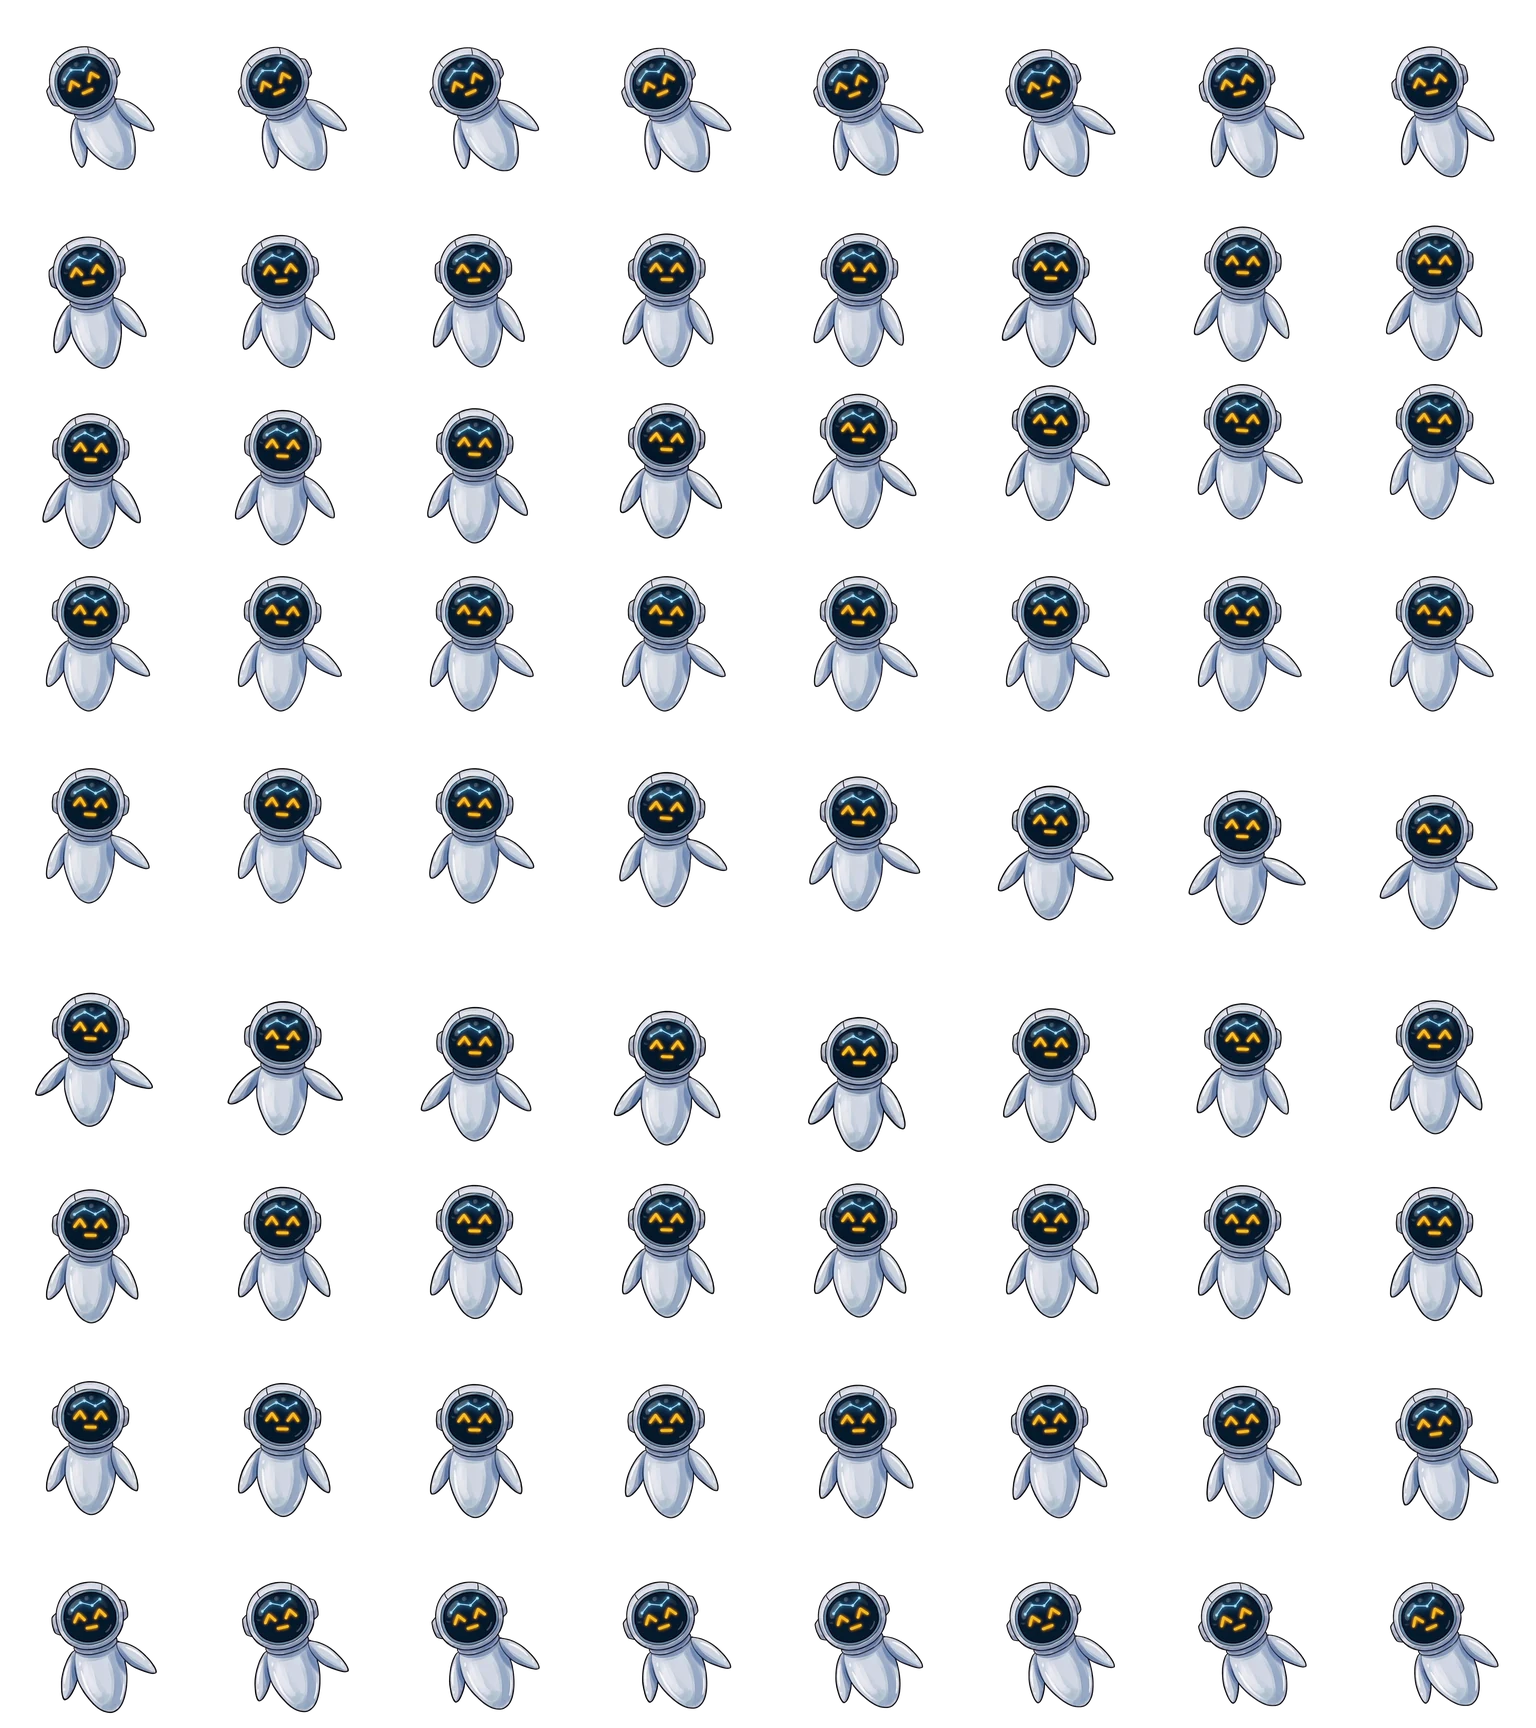
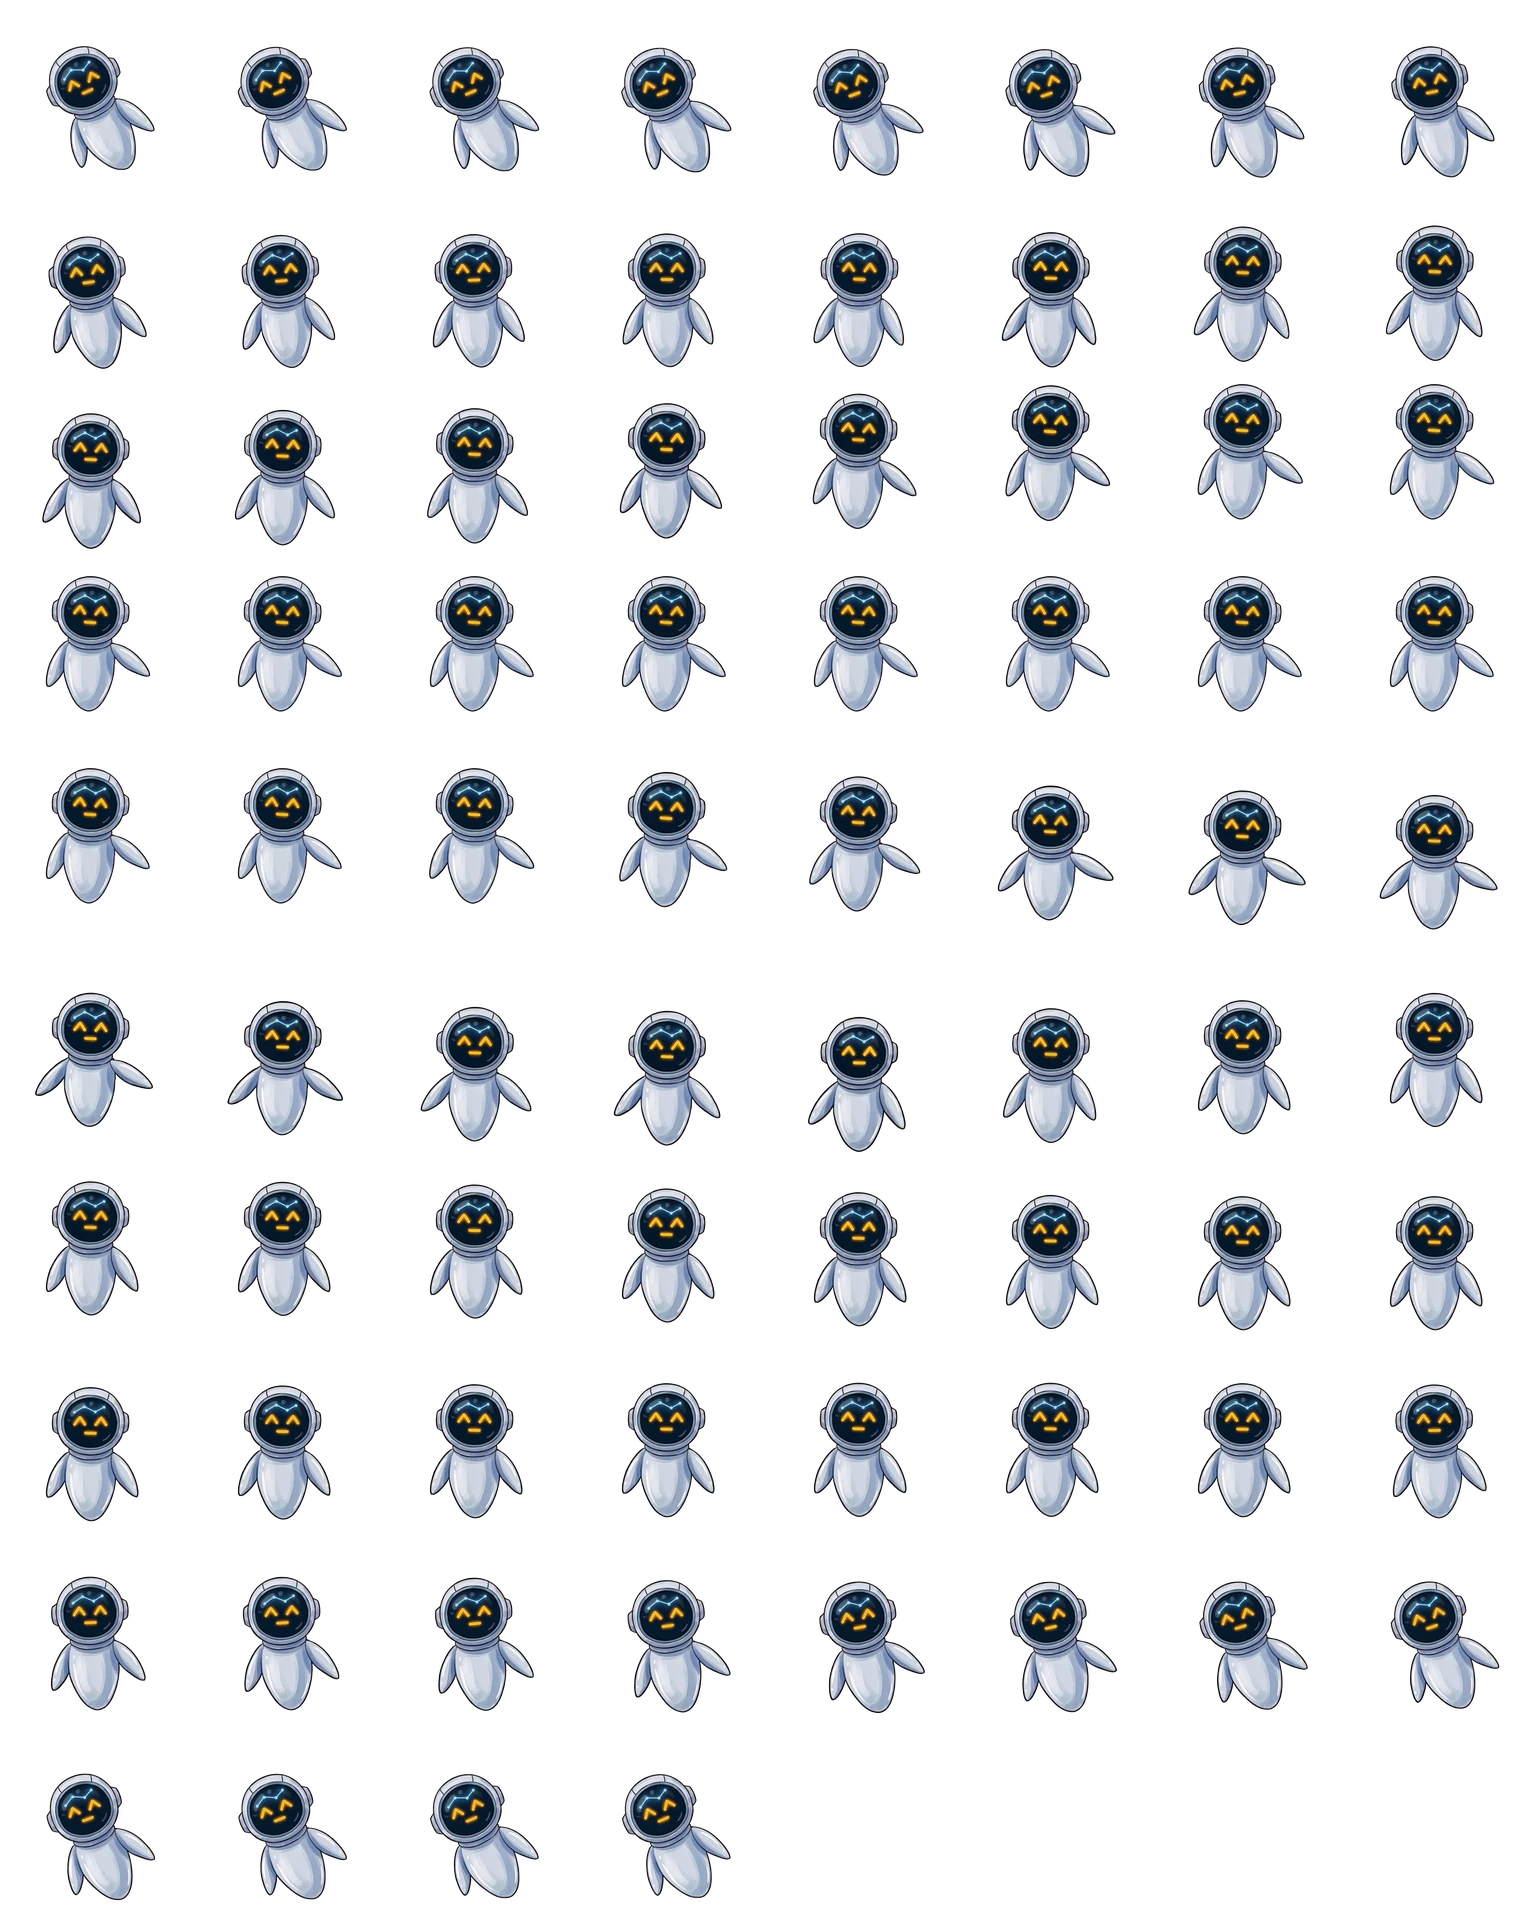
Launcher: Nova's rebound springs, and he rests a second between bobs
The rebound after each dip was a gentle lift that began only once the
video had already slowed him to rest, so it read as floaty. A simulated
damped spring now takes over at frame 56, where the video's spring-back
is rising fastest, so his momentum whips him past rest, swings him back
below and wobbles once more before he settles (about 3/4 s). The frames
are his settled pose shifted along the spring's path at full resolution.
Borrowing the video's arm poses to make his arms bounce too was tried and
looked jumpy, so the rigid settled pose stays; the README records why.

Once settled he now rests a second (BOB_REST_MS) before rising again: a
longer duration on the bob's last frame (frameDuration), not repeated
frames, and only while hovered, so a pointer leaving mid-rest turns him
back at once. The first rise after he turns to face you stays immediate.

diff --git a/frontend/src/assistant/launcherFrames.ts b/frontend/src/assistant/launcherFrames.ts
@@ -14,17 +14,19 @@
  *
  * - `0–12` the turn in. Frame 0 is the resting pose, the same picture as
  *   `public/astronaut-still.png`, so swapping still for sheet doesn't jump.
- * - `13–58` the bob: the rise, the video's half-second hang at the top (kept
+ * - `13–62` the bob: the rise, the video's half-second hang at the top (kept
  *   whole — Patrick tried it cut to a beat and preferred the pause), the drop
- *   and its dip below rest, then a rebound (Patrick asked for more bounce at
- *   the bottom): springing back, his momentum carries him a little *above*
- *   rest before he settles — his settled frame lifted along a damped arc,
- *   each step slower than the last. (Replaying the dip's frames backwards
- *   for a second dip was tried first: reversing straight back down read as a
- *   stutter step, not a bounce.)
+ *   and its dip below rest, then a rebound (Patrick asked for more bounce and
+ *   momentum at the bottom): from the frame where the video's spring-back is
+ *   rising fastest, a damped spring takes over, so he whips past rest, swings
+ *   back below it, wobbles once more and settles — his settled frame shifted
+ *   along the spring's path. (Earlier tries, and why they went, are in the
+ *   package README.) Settled, he **rests a second before rising again**
+ *   (Patrick) — held on the bob's last frame, and only while hovered, so a
+ *   pointer leaving mid-rest turns him back at once.
  *   Its last frame is closer to its first than most neighbouring frames are
  *   to each other, so it loops without a seam.
- * - `59–71` the turn back, whose last frame is the resting pose again.
+ * - `63–75` the turn back, whose last frame is the resting pose again.
  *
  * Authors:
  * Charles Patrick James <charles.patrick.james@gmail.com>
@@ -33,16 +35,19 @@
 /** The sprite sheet, and how it is laid out: 192px frames, left to right, top to bottom. */
 export const SHEET = '/astronaut-frames.webp'
 export const SHEET_COLUMNS = 8
-export const SHEET_ROWS = 9
+export const SHEET_ROWS = 10
 /** The video's own rate, 23.976 frames a second. */
 export const FRAME_MS = 1001 / 24
+
+/** How long he rests between bobs, once the rebound settles. */
+export const BOB_REST_MS = 1000
 
 /** The resting pose: the sheet's first frame, and the still. */
 export const REST = 0
 const TURN_IN_END = 12
 const BOB_START = 13
-const BOB_END = 58
-const TURN_BACK_END = 71
+const BOB_END = 62
+const TURN_BACK_END = 75
 
 /**
  * The frame after this one.
@@ -64,6 +69,17 @@ export function nextFrame(frame: number, hovered: boolean): number | null {
   if (frame <= TURN_IN_END) return frame - 1
   if (frame < TURN_BACK_END) return frame + 1
   return REST
+}
+
+/**
+ * How long a frame stays up before the next.
+ *
+ * @param frame The frame showing now.
+ * @param hovered Whether the pointer is (still) over him.
+ * @returns Its time on screen, in milliseconds.
+ */
+export function frameDuration(frame: number, hovered: boolean): number {
+  return frame === BOB_END && hovered ? BOB_REST_MS : FRAME_MS
 }
 
 /**

diff --git a/frontend/test/assistant/launcherFrames.test.ts b/frontend/test/assistant/launcherFrames.test.ts
@@ -11,7 +11,14 @@
  */
 
 import { expect, it } from 'vitest'
-import { REST, framePosition, nextFrame } from '../../src/assistant/launcherFrames'
+import {
+  BOB_REST_MS,
+  FRAME_MS,
+  REST,
+  frameDuration,
+  framePosition,
+  nextFrame,
+} from '../../src/assistant/launcherFrames'
 
 /**
  * Step from a frame for a while, hovered or not.
@@ -37,8 +44,8 @@ it('turns in, then bobs round and round while hovered', () => {
   const shown = run(REST, true, 80)
   expect(shown.slice(0, 13)).toEqual([1, 2, 3, 4, 5, 6, 7, 8, 9, 10, 11, 12, 13])
   // The bob's last frame loops to its first, and it never turns back.
-  expect(shown[shown.indexOf(58) + 1]).toBe(13)
-  expect(Math.max(...shown)).toBe(58)
+  expect(shown[shown.indexOf(62) + 1]).toBe(13)
+  expect(Math.max(...shown)).toBe(62)
 })
 
 it('unwinds a turn let go of half way', () => {
@@ -48,18 +55,25 @@ it('unwinds a turn let go of half way', () => {
 it('finishes the drop, turns back and stops at rest once let go', () => {
   const shown = run(20, false, 80)
   expect(shown[0]).toBe(21)
-  expect(shown.at(-2)).toBe(71)
+  expect(shown.at(-2)).toBe(75)
   expect(shown.at(-1)).toBe(REST)
   expect(nextFrame(REST, false)).toBeNull()
 })
 
 it('runs a turn back hovered again in reverse, into the bob', () => {
-  expect(run(62, true, 6)).toEqual([61, 60, 59, 58, 13, 14])
+  expect(run(66, true, 6)).toEqual([65, 64, 63, 62, 13, 14])
 })
 
-it('places frames on the 8 × 9 sheet', () => {
+it('rests a second between bobs, but only while hovered', () => {
+  expect(frameDuration(62, true)).toBe(BOB_REST_MS)
+  expect(frameDuration(62, false)).toBe(FRAME_MS)
+  expect(frameDuration(30, true)).toBe(FRAME_MS)
+  expect(frameDuration(13, true)).toBe(FRAME_MS)
+})
+
+it('places frames on the 8 × 10 sheet', () => {
   expect(framePosition(0)).toBe('0% 0%')
   expect(framePosition(7)).toBe('100% 0%')
-  expect(framePosition(8)).toBe('0% 12.5%')
-  expect(framePosition(71)).toBe('100% 100%')
+  expect(framePosition(8)).toBe('0% 11.11111111111111%')
+  expect(framePosition(75)).toBe('42.857142857142854% 100%')
 })

diff --git a/frontend/test/assistant/AssistantLauncher.test.tsx b/frontend/test/assistant/AssistantLauncher.test.tsx
@@ -13,6 +13,7 @@
 import { act, cleanup, fireEvent, render, screen } from '@testing-library/react'
 import { afterEach, beforeEach, expect, it, vi } from 'vitest'
 import AssistantLauncher from '../../src/assistant/AssistantLauncher'
+import { framePosition } from '../../src/assistant/launcherFrames'
 
 afterEach(cleanup)
 beforeEach(() => {
@@ -42,6 +43,19 @@ it('moves while the pointer is over it, comes back to rest after leaving, and st
     // Long past the turn in, he is still going.
     act(() => vi.advanceTimersByTime(5000))
     expect(sprite()).not.toBeNull()
+    // Hovered, he holds the rest between bobs for a second, then rises again.
+    const resting = framePosition(62)
+    for (
+      let elapsed = 0;
+      elapsed < 6000 && sprite()?.style.backgroundPosition !== resting;
+      elapsed += 16
+    )
+      act(() => vi.advanceTimersByTime(16))
+    expect(sprite()?.style.backgroundPosition).toBe(resting)
+    act(() => vi.advanceTimersByTime(500))
+    expect(sprite()?.style.backgroundPosition).toBe(resting)
+    act(() => vi.advanceTimersByTime(600))
+    expect(sprite()?.style.backgroundPosition).not.toBe(resting)
     // Let go, he finishes the bob and turns back to rest.
     fireEvent.pointerLeave(button)
     act(() => vi.advanceTimersByTime(3000))

diff --git a/frontend/src/assistant/AssistantLauncher.tsx b/frontend/src/assistant/AssistantLauncher.tsx
@@ -34,6 +34,7 @@ import { useEffect, useRef, useState, type CSSProperties, type PointerEvent } fr
 import {
   FRAME_MS,
   REST,
+  frameDuration,
   SHEET,
   SHEET_COLUMNS,
   SHEET_ROWS,
@@ -131,11 +132,16 @@ export default function AssistantLauncher({ onOpen }: { onOpen: () => void }) {
     if (stillOnly || animation.current !== null) return
     let last: number | null = null
     const tick = (now: number) => {
-      if (last === null || now - last > MAX_CATCH_UP_MS) last = now - FRAME_MS
+      // The first tick steps straight away, so he moves the moment he's hovered.
+      if (last === null) last = now - FRAME_MS
       let current = frameRef.current
       let resting = false
-      while (now - last >= FRAME_MS) {
-        last += FRAME_MS
+      for (;;) {
+        // Frames don't all last the same: he rests between bobs.
+        const duration = frameDuration(current, hovered.current)
+        if (now - last < duration) break
+        if (now - last > duration + MAX_CATCH_UP_MS) last = now - duration
+        last += duration
         const next = nextFrame(current, hovered.current)
         if (next === null) {
           resting = true

diff --git a/frontend/src/assistant/README.md b/frontend/src/assistant/README.md
@@ -188,27 +188,38 @@ reads and which tools it gets.
 
   **Why a sprite sheet.** An `<img>` plays an animated WebP start to finish
   and can't be told to hold a stretch or stop part way, so the frames are one
-  sheet (`public/astronaut-frames.webp`, 72 frames of 192px, 8 × 9) and the
+  sheet (`public/astronaut-frames.webp`, 76 frames of 192px, 8 × 10) and the
   launcher paints one at a time as a `background-position`, at the video's own
   23.976 fps. `launcherFrames.ts` is the whole choreography — a pure
   `nextFrame(frame, hovered)` over three runs laid end to end: the turn in
-  (0–12), the bob (13–56: the rise, the half-second hang at the top, the
-  drop and its dip below rest, then a rebound), the turn back (59–71, ending
+  (0–12), the bob (13–62: the rise, the half-second hang at the top, the
+  drop and its dip below rest, then a rebound), the turn back (63–75, ending
   on the resting pose).
 
-  **The rebound** (Patrick wanted more bounce at the bottom). Springing back
-  from the dip, his momentum carries him a little *above* rest before he
-  settles: eleven frames of his settled frame lifted along a damped arc (9px
-  of the 192 at the peak against the dip's 17 — first 6px, which Patrick
-  found a little small), each step up slower than the
-  last, continuing the speed he was already rising at — lifted at full
-  resolution before scaling, so the motion isn't steppy. No new drawing was
-  needed. Replaying the dip's own frames backwards for a second, smaller dip
-  was tried first and read as a stutter step: reversing straight back down
-  throws away the momentum the spring-back built. The bob loops without a seam because its last frame is closer to its
-  first than most neighbouring frames are to each other (measured, not
-  eyeballed). The still is the sheet's first frame, so swapping one for the
-  other doesn't jump; the sheet is fetched on mount so the first hover has it.
+  **The rebound** (Patrick wanted more bounce and momentum at the bottom).
+  From frame 56 of the video — the instant its spring-back is rising
+  fastest, 42px a frame at full resolution — a simulated damped spring takes
+  over (ω 0.55 rad/frame, ζ 0.3, its swing scaled 1.25×), so his momentum
+  whips him about 11px (of the 192) above rest in two frames, swings him 4px
+  back below, wobbles once more and settles, all in about ¾ s; its tail is
+  cut where the motion drops under a pixel on screen. The frames are his
+  settled pose (frame 58) shifted along that path at full resolution before
+  scaling, so the motion isn't steppy. No new drawing was needed. Three tries
+  came first and are worth not repeating: replaying the dip's own frames
+  backwards for a second dip read as a stutter step (reversing straight
+  back down throws away the momentum the spring-back built), and a gentle
+  lift that began only after the video had slowed him to rest read as
+  floaty (the momentum had already died at the handoff). And borrowing the
+  video's arm poses for the rebound (arms winging up and drooping with the
+  spring's acceleration) looked jumpy, the borrowed frames reading as
+  skipped frames — the rigid settled pose stays.
+
+  **A rest between bobs** (Patrick: give him a second after his bounces
+  finish). Once the rebound settles he holds still for `BOB_REST_MS` (1s)
+  before rising again. It is a longer *duration* on the bob's last frame
+  (`frameDuration`), not repeated frames on the sheet, and it applies only
+  while hovered: a pointer leaving mid-rest turns him back at once. The
+  first rise after he turns to face you stays immediate.
 
   **Where the frames came from.** Patrick's generated video, re-cut from his
   cleaned-up second video (2026-11-02): its plain paper background keyed out
